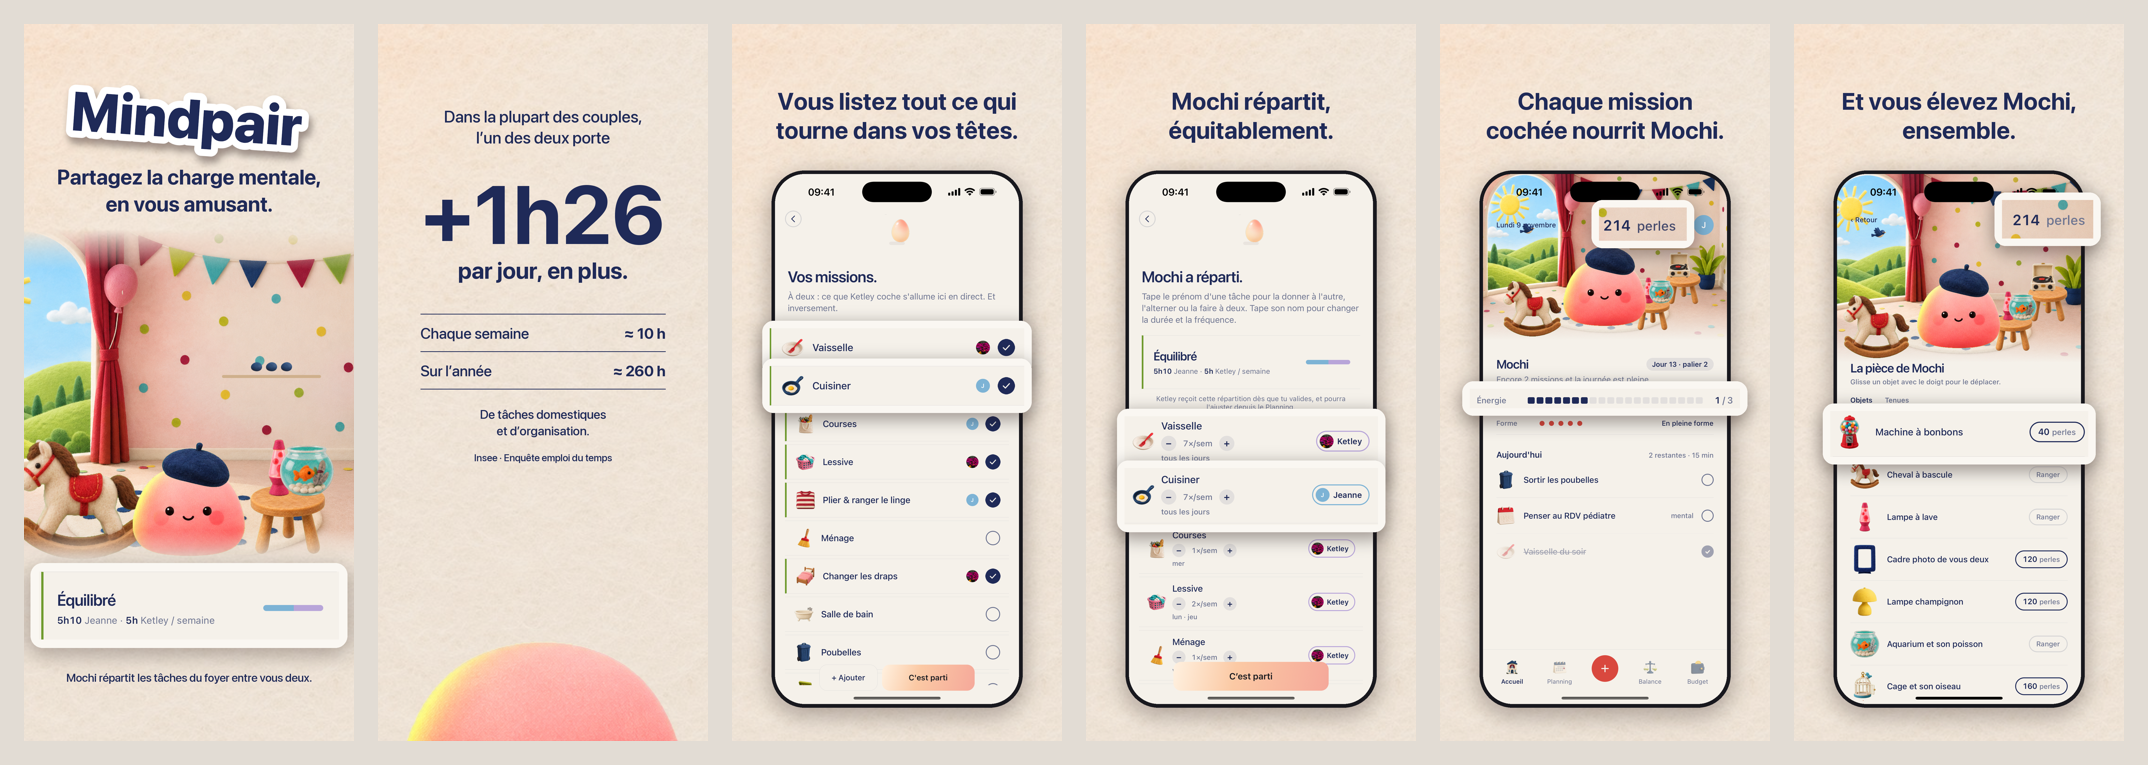
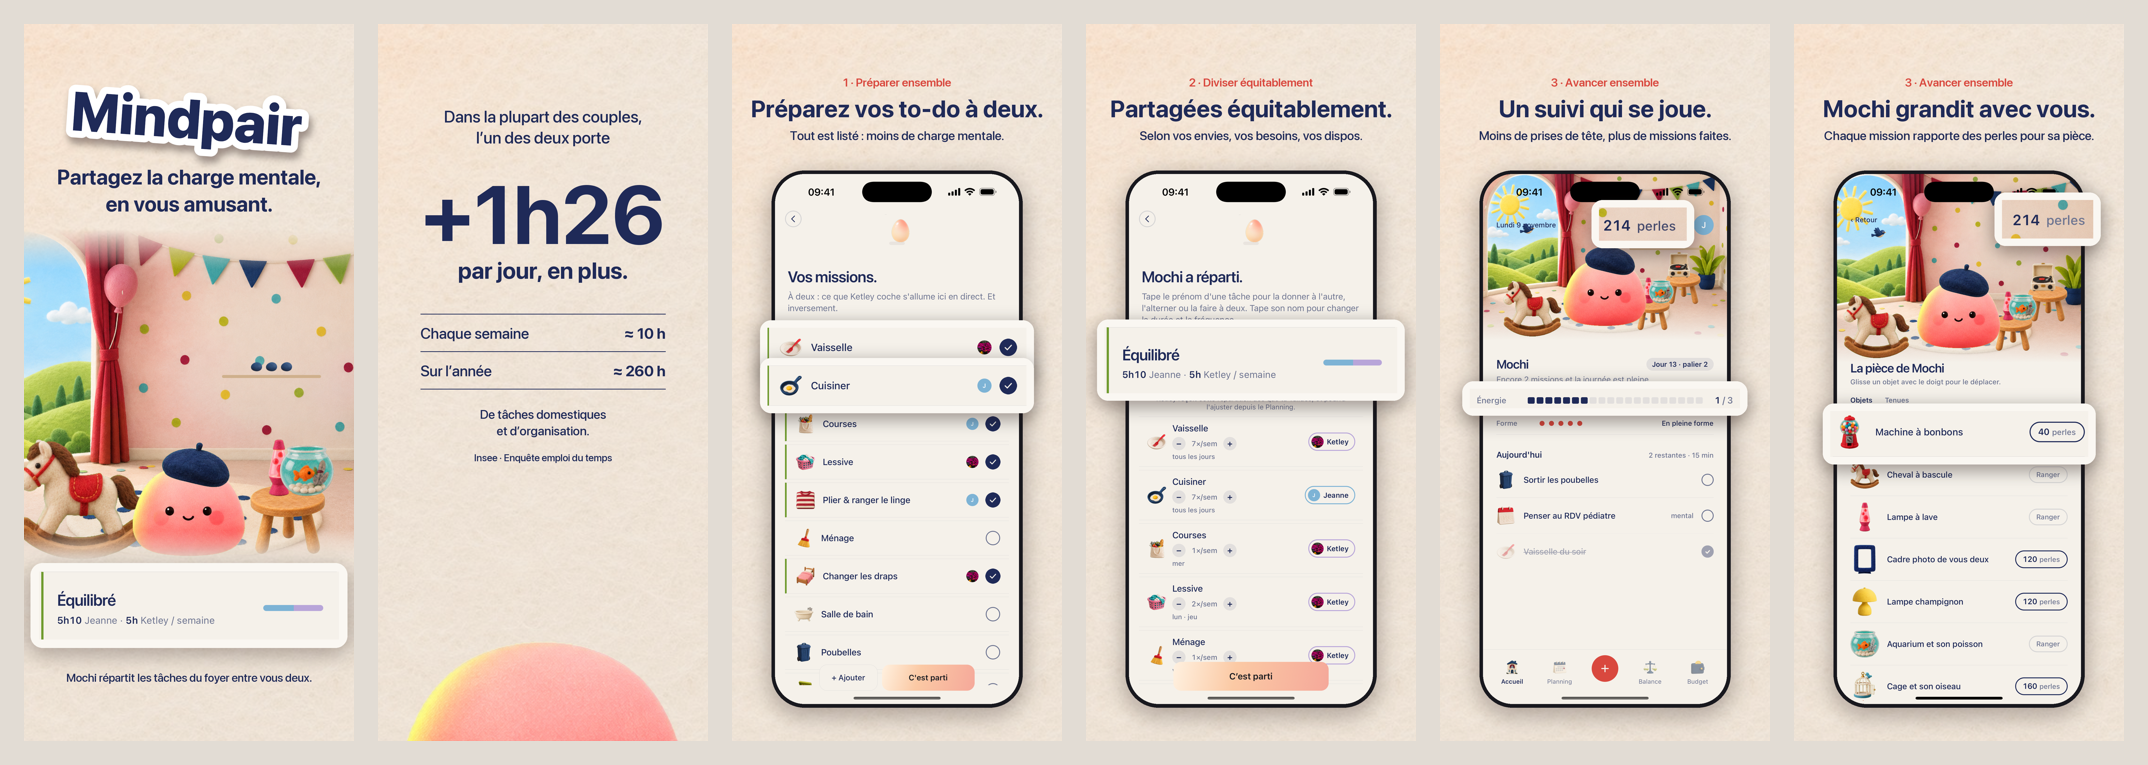
Captures App Store : écrans 3 à 6 construits sur les trois promesses de Mindpair

diff --git a/scripts/store-ecrans-mockup.py b/scripts/store-ecrans-mockup.py
@@ -17,10 +17,16 @@ def shadow(im,box,r,a=90,blur=44,dy=26):
 ICON=Image.open(M+'design/icone/H-meme-cadrage.png').convert('RGBA')
 PW=int(W*0.74); PY=600; R=118; BZ=14
 
-def screen(out,title,shot,pops,notif=None):
+def screen(out,title,shot,pops,notif=None,kicker=None,sub=None):
     im=felt_bg(); d=ImageDraw.Draw(im)
-    for i,l in enumerate(title):
-        f=font(96,'Bold'); w=d.textlength(l,font=f); d.text(((W-w)/2,250+116*i),l,font=f,fill=INK)
+    if sub is None:
+        for i,l in enumerate(title):
+            f=font(96,'Bold'); w=d.textlength(l,font=f); d.text(((W-w)/2,250+116*i),l,font=f,fill=INK)
+    else:  # les trois piliers : repère numéroté, titre sur une ligne, bénéfice dessous
+        if kicker:
+            fk=font(46,'Semibold'); w=d.textlength(kicker,font=fk); d.text(((W-w)/2,205),kicker,font=fk,fill=(217,72,62))
+        f=font(TSZ,'Bold'); w=d.textlength(title[0],font=f); d.text(((W-w)/2,280),title[0],font=f,fill=INK)
+        fs=font(50,'Medium'); w=d.textlength(sub,font=fs); d.text(((W-w)/2,415),sub,font=fs,fill=INK+(175,))
     s=Image.open(B+shot).convert('RGBA'); sc=PW/s.width; PH=int(s.height*sc); s2=s.resize((PW,PH),Image.LANCZOS)
     PX=(W-PW)//2
     im=shadow(im,(PX-BZ,PY-BZ,PX+PW+BZ,PY+PH+BZ),R+BZ)
@@ -41,12 +47,13 @@ def screen(out,title,shot,pops,notif=None):
     im.convert('RGB').save(O+out+'.png')
 
 CARD=(250,247,242); NUIT=(46,33,64)
+_d=ImageDraw.Draw(Image.new('RGB',(1,1))); TSZ=96
+while max(_d.textlength(t,font=font(TSZ,'Bold')) for t in ['Préparez vos to-do à deux.', 'Partagées équitablement.', 'Un suivi qui se joue.', 'Mochi grandit avec vous.'])>W-150: TSZ-=2
 # screen('v5-02',['Souvent, une seule','personne y pense.'],'onb1.png',[((40,1822,1280,1938),1.16,NUIT)])
-screen('v6-03',['Vous listez tout ce qui','tourne dans vos têtes.'],'taches.png',[((56,848,1264,1040),1.14,CARD),((56,1052,1264,1240),1.14,CARD)])
-screen('v6-04',['Mochi répartit,','équitablement.'],'dispatch.png',[((60,1330,1264,1600),1.14,CARD),((60,1610,1264,1880),1.14,CARD)])
-# screen('v5-05',['Chacun ses missions.','Plus besoin de relancer.'],'planning.png',[((40,960,1290,1080),1.16,CARD)],notif=('Vaisselle','C’est l’heure. 15 min suffisent.','20:30'))
-screen('v6-05',['Chaque mission','coch\u00e9e nourrit Mochi.'],'accueil.png',[((40,1170,1280,1260),1.18,CARD),((740,225,990,320),1.9,CARD)])
-screen('v6-06',['Et vous élevez Mochi,','ensemble.'],'chambre.png',[((1010,190,1270,300),1.9,CARD),((60,1300,1264,1515),1.16,CARD)])
+screen('v6-03',['Pr\u00e9parez vos to-do \u00e0 deux.'],'taches.png',[((56,848,1264,1040),1.16,CARD),((56,1052,1264,1240),1.16,CARD)],kicker='1 \u00b7 Pr\u00e9parer ensemble',sub='Tout est list\u00e9 : moins de charge mentale.')
+screen('v6-04',['Partag\u00e9es \u00e9quitablement.'],'dispatch.png',[((60,872,1260,1144),1.32,CARD)],kicker='2 \u00b7 Diviser \u00e9quitablement',sub='Selon vos envies, vos besoins, vos dispos.')
+screen('v6-05',['Un suivi qui se joue.'],'accueil.png',[((40,1170,1280,1260),1.18,CARD),((740,225,990,320),1.9,CARD)],kicker='3 \u00b7 Avancer ensemble',sub='Moins de prises de t\u00eate, plus de missions faites.')
+screen('v6-06',['Mochi grandit avec vous.'],'chambre.png',[((1010,190,1270,300),1.9,CARD),((60,1300,1264,1515),1.16,CARD)],kicker='3 \u00b7 Avancer ensemble',sub='Chaque mission rapporte des perles pour sa pi\u00e8ce.')
 
 fs=['v6-01','v6-02','v6-03','v6-04','v6-05','v6-06']
 k=0.25; w,h=int(W*k),int(H*k); g=24

diff --git a/TODO.md b/TODO.md
@@ -443,3 +443,5 @@ Décisions Jeanne (tableau de bord, 4 nov 2026) : coucher du foyer 22 h (migrati
 10 nov 2026 — **Captures App Store v5, vue d'ensemble** (`design/app-store/planche-v5.png`) : écran 1 validé (sticker Mindpair + vraie pièce + carte Équilibré, `v4-01`), écrans 2 à 6 en téléphone sur fond crème (Jeanne : « je préfère avec mock up »), un ou deux éléments qui ressortent à leur place : 2 diapo Insee de l'onboarding (+1h26), 3 choix à deux (Vaisselle, Cuisiner), 4 répartition (Vaisselle → Ketley, Cuisiner → Jeanne), 5 Planning + rappel « Vaisselle · C'est l'heure. 15 min suffisent. », 6 pièce de Mochi (214 perles, machine à bonbons 40 perles). Script `scripts/store-ecrans-mockup.py`. Écartés en route : scène « la pile » dans l'app (`app/store-pile.js`, gardée pour une éventuelle vidéo d'aperçu).
 
 10 nov 2026 — **Captures App Store v6** (Jeanne : « y a un moment où ça avait du mieux » → comparaison v1/v5 dans `comparaison-v1-v5.png`) : on garde le meilleur des deux. Fond feutre de la v1 partout ; 1 = écran 1 validé (sticker, pièce, Équilibré) ; 2 = l'écran Insee clair de la v1 (texte seul, Mochi en bas) ; 3–4 téléphone (choix à deux, répartition) ; 5 = « Chaque mission cochée nourrit Mochi » de la v1, refait sur la grille commune ; 6 = la pièce de Mochi. Planche `planche-v6.png`, fichiers `v6-01…06.png`.
+
+10 nov 2026 — **Captures App Store v6, autour des 3 promesses** données par Jeanne : (1) moins de charge mentale en préparant les to-do ensemble, (2) to-do divisées équitablement selon vos envies et besoins, (3) suivi gamifié pour se prendre moins la tête et avancer ensemble. Écrans 3 à 6 avec repère numéroté rouge (« 1 · Préparer ensemble », « 2 · Diviser équitablement », « 3 · Avancer ensemble ») + titre une ligne + bénéfice : « Préparez vos to-do à deux. », « Partagées équitablement. », « Un suivi qui se joue. », « Mochi grandit avec vous. ». Écrans 1 (marque) et 2 (Insee) inchangés.
